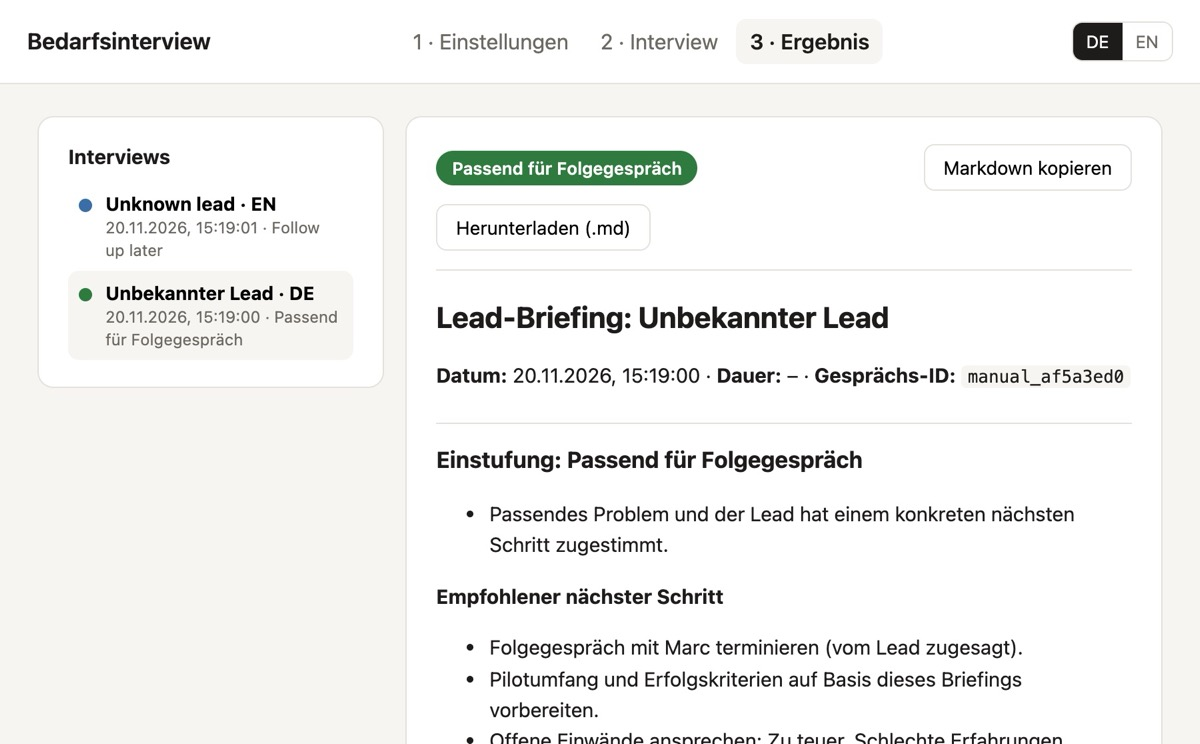
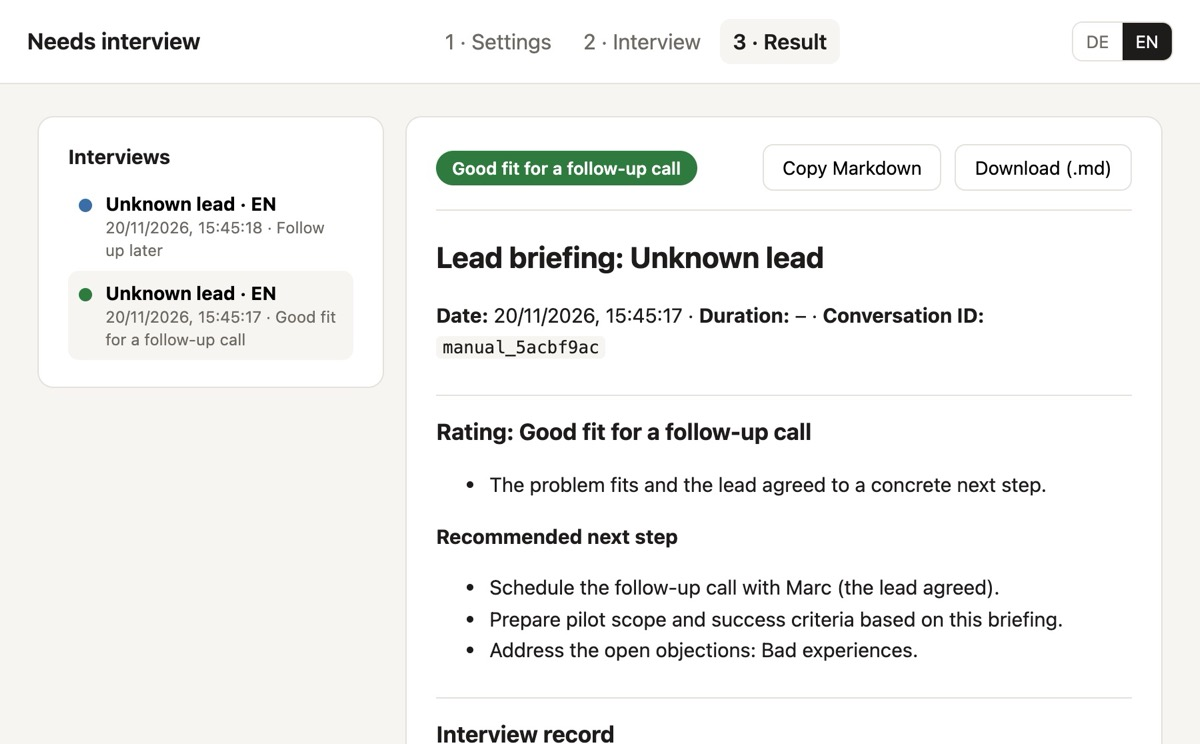
Voice Sales Interview: English screenshots, barge-in and mute
All build-notes screenshots now show the English UI with synthetic
transcripts; card image and alt text follow. New paragraph on barge-in
(interrupt any time, backchannels ignored, patient turn-taking) and the
mute button for noisy places. Media sources updated.

diff --git a/index.html b/index.html
@@ -61,7 +61,7 @@
 <article class="project"><a class="project-image" href="https://write.doyouknowmarc.com/"><img src="./assets/media/write.jpg" alt="The Write landing page: a quiet page that says “Write.” with a blinking cursor" loading="lazy" decoding="async" ><span class="media-open" aria-hidden="true">↗</span></a><div class="project-body"><ul class="control"><li>Text never leaves the browser</li><li>Local AI optional</li></ul><span class="tag">PRIVATE BY DESIGN</span><h3>Write</h3><p>A quiet page for first drafts and poems. Versions of a passage side by side, notes in the margin, synonyms, a local AI when you ask for one, and pictures of your words to share. No account, and your text never leaves the browser.</p><div class="card-links"><a href="https://write.doyouknowmarc.com/">Start writing ↗</a><a href="https://write.doyouknowmarc.com/docs/">What it does ↗</a></div></div></article><article class="project"><a class="project-image" href="https://audio.doyouknowmarc.com/"><img src="./assets/media/audio-cut.jpg" alt="Audio Cut: drop in an audio or video file to trim it and clean up the voice" loading="lazy" decoding="async" ><span class="media-open" aria-hidden="true">↗</span></a><div class="project-body"><ul class="control"><li>Files stay on your device</li></ul><span class="tag">IN THE BROWSER</span><h3>Audio Cut</h3><p>Cut voice recordings precisely and get them ready for a voice clone: pick the part on the waveform, then remove noise and reverb, boost the voice and compare before and after. Files stay on your device.</p><div class="card-links"><a href="https://audio.doyouknowmarc.com/">Try Audio Cut ↗</a></div></div></article><article class="project"><a class="project-image" href="./blog/transkripta/"><img src="./assets/media/transkripta.jpg" alt="Transkripta’s review view: a transcript in timed passages, one tagged Key Finding" loading="lazy" decoding="async" ><span class="media-open" aria-hidden="true">→</span></a><div class="project-body"><ul class="control"><li>Works offline</li><li>Bring your own AI</li></ul><span class="tag">MAC APP · OFFLINE</span><h3>Transkripta</h3><p>Recordings become research material. Drop in an interview, get a searchable transcript on your Mac, jump from any passage to its audio and tag the quotes and findings. Transcription runs offline; AI tagging is optional and can stay local too.</p><div class="card-links"><a href="./blog/transkripta/">How I built it →</a></div></div></article><article class="project"><a class="project-image" href="https://talkingontop.doyouknowmarc.com/"><img src="./assets/media/talking-on-top.jpg" alt="Talking on Top: “The notch, extended.” with live captions below the MacBook notch" loading="lazy" decoding="async" ><span class="media-open" aria-hidden="true">↗</span></a><div class="project-body"><ul class="control"><li>On-device</li><li>Hidden from screen sharing</li></ul><span class="tag">MAC APP</span><h3>Talking on Top</h3><p>The notch, extended: live captions for everything you say and everything your Mac plays, from the microphone, the Mac’s sound or both. On-device, and invisible to screen sharing.</p><p class="note">The page is a password-protected preview for now.</p><div class="card-links"><a href="https://talkingontop.doyouknowmarc.com/">Visit the page ↗</a></div></div></article><article class="project"><a class="project-image" href="https://typingontop.doyouknowmarc.com/"><img src="./assets/media/typing-on-top.jpg" alt="Typing on Top: “Eyes up. Type on top.” with the typed text shown beside the MacBook notch" loading="lazy" decoding="async" ><span class="media-open" aria-hidden="true">↗</span></a><div class="project-body"><ul class="control"><li>On-device</li><li>No network access</li></ul><span class="tag">MAC APP</span><h3>Typing on Top</h3><p>Your hands shouldn’t hide your words. A small Mac menu-bar app that mirrors what you type beside the notch, so your eyes can stay up, on the camera or the room. Runs entirely on the device, with no network access.</p><div class="card-links"><a href="https://typingontop.doyouknowmarc.com/">Visit the page ↗</a></div></div></article><article class="project"><a class="project-image" href="https://doyouknowmarc.github.io/tools/"><img src="./assets/media/dcE3bw8T.jpg" alt="Marc’s toolkit showing the background removal tool" loading="lazy" decoding="async" ><span class="media-open" aria-hidden="true">↗</span></a><div class="project-body"><span class="tag">BUILT WITH CODEX</span><h3>A self-evolving website</h3><p>Visitors submit ideas for tools. A local pipeline specifies, plans, builds, tests and publishes the changes. I developed the idea with GPT; Codex built the project and its structure.</p><p class="note">The toolkit is available. The local Mac mini pipeline is currently offline.</p><div class="card-links"><a href="https://doyouknowmarc.github.io/tools/">Explore the tools ↗</a><a href="https://lnkd.in/p/dcE3bw8T">Background remover post ↗</a></div></div></article>
 </div></div>
 <div class="tool-group" id="found"><div class="group-head"><p class="eyebrow">BE FOUND ON YOUR TERMS</p><p>For founders and business owners who want to control how they appear online.</p></div><div class="project-grid">
-<article class="project"><a class="project-image" href="https://panel.doyouknowmarc.com/"><img src="./assets/media/knowledge-panel-studio.jpg" alt="OwnYourName: a Google-style search for Marc Kroll with a full Knowledge Panel of photos, videos and profiles" loading="lazy" decoding="async" ><span class="media-open" aria-hidden="true">↗</span></a><div class="project-body"><span class="tag">YOUR NAME, FOUND</span><h3>OwnYourName</h3><p>What do people see when they google you? Type a name and watch scattered results turn into one Knowledge Panel-style picture: photos, talks, videos and profiles that tell the same story. Mine and Laurent Terrijn’s are real examples.</p><p class="note">An illustrative concept. Not affiliated with Google.</p><div class="card-links"><a href="https://panel.doyouknowmarc.com/">Try your name ↗</a><article class="project"><a class="project-image" href="./blog/voice-sales-interview/"><img src="./assets/media/voice-sales-interview.jpg" alt="A lead briefing rated “Passend für Folgegespräch”, with the recommended next steps" loading="lazy" decoding="async" ><span class="media-open" aria-hidden="true">→</span></a><div class="project-body"><ul class="control"><li>Calls go to ElevenLabs and TypeSafe</li><li>Bring your own keys</li></ul><span class="tag">VOICE AGENT · DE &amp; EN</span><h3>Voice Sales Interview</h3><p>A voice agent runs the first discovery call with a lead, follows their tangents and finds its way back to the questions that matter. A decision model rates the call and plain code turns that into a briefing with quotes, objections and a next step. Cloud models for now; a local version is on the roadmap.</p><div class="card-links"><a href="./blog/voice-sales-interview/">How I built it →</a></div></div></article></div></div></article><article class="project"><a class="project-image" href="https://consentkit.doyouknowmarc.com/"><img src="./assets/media/consentkit.jpg" alt="The ConsentKit page: “Cookie consent without the bloat.” with its cookie banner" loading="lazy" decoding="async" ><span class="media-open" aria-hidden="true">↗</span></a><div class="project-body"><ul class="control"><li>No tracking until consent</li><li>No dependencies</li></ul><span class="tag">PRIVACY BY DEFAULT</span><h3>ConsentKit</h3><p>A small cookie consent manager without dependencies. It blocks analytics and marketing scripts until a visitor agrees, and keeps YouTube videos as placeholders until they choose to play one. It runs on this site.</p><div class="card-links"><a href="https://consentkit.doyouknowmarc.com/">Try the banner ↗</a></div></div></article><article class="project"><a class="project-image" href="https://webcompare.doyouknowmarc.com/"><img src="./assets/media/webcompare.jpg" alt="WebCompare: medtests.de and doyouknowmarc.com on one MacBook screen, split by a slider" loading="lazy" decoding="async" ><span class="media-open" aria-hidden="true">↗</span></a><div class="project-body"><span class="tag">BEFORE AND AFTER</span><h3>WebCompare</h3><p>Two URLs, one device. A live site and its redesign, production and staging, or you and a competitor, on a real MacBook or iPhone screen: side by side, switched in place, or under one slider. Every view is a link you can send.</p><div class="card-links"><a href="https://webcompare.doyouknowmarc.com/">Compare two sites ↗</a></div></div></article>
+<article class="project"><a class="project-image" href="https://panel.doyouknowmarc.com/"><img src="./assets/media/knowledge-panel-studio.jpg" alt="OwnYourName: a Google-style search for Marc Kroll with a full Knowledge Panel of photos, videos and profiles" loading="lazy" decoding="async" ><span class="media-open" aria-hidden="true">↗</span></a><div class="project-body"><span class="tag">YOUR NAME, FOUND</span><h3>OwnYourName</h3><p>What do people see when they google you? Type a name and watch scattered results turn into one Knowledge Panel-style picture: photos, talks, videos and profiles that tell the same story. Mine and Laurent Terrijn’s are real examples.</p><p class="note">An illustrative concept. Not affiliated with Google.</p><div class="card-links"><a href="https://panel.doyouknowmarc.com/">Try your name ↗</a><article class="project"><a class="project-image" href="./blog/voice-sales-interview/"><img src="./assets/media/voice-sales-interview.jpg" alt="A lead briefing rated “Good fit for a follow-up call”, with the recommended next steps" loading="lazy" decoding="async" ><span class="media-open" aria-hidden="true">→</span></a><div class="project-body"><ul class="control"><li>Calls go to ElevenLabs and TypeSafe</li><li>Bring your own keys</li></ul><span class="tag">VOICE AGENT · DE &amp; EN</span><h3>Voice Sales Interview</h3><p>A voice agent runs the first discovery call with a lead, follows their tangents and finds its way back to the questions that matter. A decision model rates the call and plain code turns that into a briefing with quotes, objections and a next step. Cloud models for now; a local version is on the roadmap.</p><div class="card-links"><a href="./blog/voice-sales-interview/">How I built it →</a></div></div></article></div></div></article><article class="project"><a class="project-image" href="https://consentkit.doyouknowmarc.com/"><img src="./assets/media/consentkit.jpg" alt="The ConsentKit page: “Cookie consent without the bloat.” with its cookie banner" loading="lazy" decoding="async" ><span class="media-open" aria-hidden="true">↗</span></a><div class="project-body"><ul class="control"><li>No tracking until consent</li><li>No dependencies</li></ul><span class="tag">PRIVACY BY DEFAULT</span><h3>ConsentKit</h3><p>A small cookie consent manager without dependencies. It blocks analytics and marketing scripts until a visitor agrees, and keeps YouTube videos as placeholders until they choose to play one. It runs on this site.</p><div class="card-links"><a href="https://consentkit.doyouknowmarc.com/">Try the banner ↗</a></div></div></article><article class="project"><a class="project-image" href="https://webcompare.doyouknowmarc.com/"><img src="./assets/media/webcompare.jpg" alt="WebCompare: medtests.de and doyouknowmarc.com on one MacBook screen, split by a slider" loading="lazy" decoding="async" ><span class="media-open" aria-hidden="true">↗</span></a><div class="project-body"><span class="tag">BEFORE AND AFTER</span><h3>WebCompare</h3><p>Two URLs, one device. A live site and its redesign, production and staging, or you and a competitor, on a real MacBook or iPhone screen: side by side, switched in place, or under one slider. Every view is a link you can send.</p><div class="card-links"><a href="https://webcompare.doyouknowmarc.com/">Compare two sites ↗</a></div></div></article>
 </div></div>
 <div class="tool-group" id="teams"><div class="group-head"><p class="eyebrow">KNOWLEDGE THAT STAYS IN THE TEAM</p><p>For teams adopting AI, and for the people who explain it to them.</p></div><div class="project-grid">
 <article class="project"><a class="project-image" href="https://github.com/doyouknowmarc/Hacknation-Public-2027/blob/main/videos/sensei-explainer/renders/sensei-explainer.mp4"><img src="./assets/media/sensei-product.jpg" alt="Actual Sensei landing page: capturing expert knowledge and teaching it to the next person" loading="lazy" decoding="async" ><span class="media-open" aria-hidden="true">▶</span></a><div class="project-body"><span class="tag">2ND PLACE · HACK-NATION</span><h3>Sensei</h3><p>Our team built a browser agent that learns how people work. Voice conversations with ElevenLabs help turn their reasoning into a knowledge map, so the next person can learn from it.</p><div class="card-links"><a href="https://github.com/doyouknowmarc/Hacknation-Public-2027/blob/main/videos/sensei-explainer/renders/sensei-explainer.mp4">Watch the explainer ↗</a><a href="https://github.com/doyouknowmarc/Hacknation-Public-2027">Code &amp; demos ↗</a><a href="https://lnkd.in/p/dTQe2Dh3">Hackathon post ↗</a></div></div></article><article class="project"><div class="project-image"><img src="./assets/media/teleprompter.png" alt="The actual Teleprompter app reading surface with script text and playback controls" loading="lazy" decoding="async" ></div><div class="project-body"><span class="tag">MY OWN WORKFLOW</span><h3>Teleprompter</h3><p>A tool I built for writing scripts and reading them on camera. It supports scenes, adjustable scrolling and voice tracking. I use it to prepare my videos.</p><details class="project-details"><summary>More about the app <span aria-hidden="true">+</span></summary><p>A browser-based editor and reading surface with script import and export, formatting, scene transitions and playback controls. Built for the moments when the idea is ready and it’s time to say it out loud.</p></details></div></article>

diff --git a/blog/voice-sales-interview/index.html b/blog/voice-sales-interview/index.html
@@ -11,9 +11,9 @@
   <meta name="keywords" content="voice agent, ElevenLabs, TypeSafe, Jev, lead qualification, sales discovery, needs assessment, decision model">
   <meta property="og:site_name" content="Marc Kroll"><meta property="og:locale" content="en_US"><meta property="og:type" content="article">
   <meta property="og:url" content="https://doyouknowmarc.com/blog/voice-sales-interview/"><meta property="og:title" content="A voice agent that turns a sales call into a lead briefing"><meta property="og:description" content="I built a German and English voice agent that interviews leads, then lets a decision model rate the call and writes a structured briefing.">
-  <meta property="og:image" content="https://doyouknowmarc.com/blog/voice-sales-interview/briefing-de.jpg"><meta property="og:image:width" content="1800"><meta property="og:image:height" content="1116">
+  <meta property="og:image" content="https://doyouknowmarc.com/blog/voice-sales-interview/briefing.jpg"><meta property="og:image:width" content="1800"><meta property="og:image:height" content="1116">
   <meta property="article:published_time" content="2026-11-20"><meta property="article:author" content="https://www.linkedin.com/in/doyouknowmarc/"><meta property="article:tag" content="Voice agents"><meta property="article:tag" content="ElevenLabs"><meta property="article:tag" content="TypeSafe"><meta property="article:tag" content="Sales">
-  <meta name="twitter:card" content="summary_large_image"><meta name="twitter:title" content="A voice agent that turns a sales call into a lead briefing"><meta name="twitter:description" content="I built a German and English voice agent that interviews leads, then lets a decision model rate the call and writes a structured briefing."><meta name="twitter:image" content="https://doyouknowmarc.com/blog/voice-sales-interview/briefing-de.jpg">
+  <meta name="twitter:card" content="summary_large_image"><meta name="twitter:title" content="A voice agent that turns a sales call into a lead briefing"><meta name="twitter:description" content="I built a German and English voice agent that interviews leads, then lets a decision model rate the call and writes a structured briefing."><meta name="twitter:image" content="https://doyouknowmarc.com/blog/voice-sales-interview/briefing.jpg">
   <script type="application/ld+json">
 {
   "@context": "https://schema.org",
@@ -25,7 +25,7 @@
       "mainEntityOfPage": "https://doyouknowmarc.com/blog/voice-sales-interview/",
       "headline": "A voice agent that turns a sales call into a lead briefing",
       "description": "I built a German and English voice agent that interviews leads, then lets a decision model rate the call and writes a structured briefing.",
-      "image": ["https://doyouknowmarc.com/blog/voice-sales-interview/briefing-de.jpg"],
+      "image": ["https://doyouknowmarc.com/blog/voice-sales-interview/briefing.jpg"],
       "datePublished": "2026-11-20",
       "dateModified": "2026-11-20",
       "inLanguage": "en",
@@ -42,7 +42,7 @@
       "applicationCategory": "BusinessApplication",
       "operatingSystem": "Web",
       "author": { "@id": "https://doyouknowmarc.com/#person" },
-      "screenshot": "https://doyouknowmarc.com/blog/voice-sales-interview/briefing-de.jpg"
+      "screenshot": "https://doyouknowmarc.com/blog/voice-sales-interview/briefing.jpg"
     }
   ]
 }
@@ -67,8 +67,8 @@
 <p>Before I build something for a client, I want to know where their process actually hurts, who decides, and whether they would pay for a small pilot. Those first conversations follow the same pattern every time. So I built an agent that runs them: a lead clicks “Start interview”, talks for about ten minutes, and I get a briefing with the problem, the evidence, the open objections and a recommended next step.</p>
 
   <figure class="figure-wide">
-    <a href="briefing-de.jpg"><img src="briefing-de.jpg" width="1800" height="1116" alt="The result view with a German briefing rated “Passend für Folgegespräch” and the recommended next steps." decoding="async"></a>
-    <figcaption>A German briefing for a synthetic interview with a cleaning company. The lead agreed to a call, so the code rated it a good fit for a follow-up.</figcaption>
+    <a href="briefing.jpg"><img src="briefing.jpg" width="1800" height="1116" alt="The result view with a briefing rated “Good fit for a follow-up call” and the recommended next steps." decoding="async"></a>
+    <figcaption>A briefing for a synthetic interview with a cleaning company. The lead agreed to a call, so the code rated it a good fit for a follow-up.</figcaption>
   </figure>
 
   <h2>The conversation runs on ElevenLabs</h2>
@@ -87,12 +87,14 @@
     <figcaption>The interview loop. Tangents and questions lead back to the checklist; the call ends after the summary and the next step, or as soon as the lead wants to stop.</figcaption>
   </figure>
 
-  <p>The agent uses Eleven v4 Turbo, which turns on ElevenLabs’ expressive mode. The prompt asks for a warm, curious tone and lets the model add a tag now and then: a short <code>[sighs]</code> when someone describes a painful process, <code>[laughs]</code> for a joke, <code>[excited]</code> when the lead agrees to a next step and <code>[slow]</code> for the summary. At most one per reply, and the tags are stripped from the transcript before anything is evaluated.</p>
+  <p>The lead can cut in at any time, even during the greeting. The agent stops, doesn’t repeat its unfinished sentence and responds to what the lead said. Short acknowledgements like “mhm”, “yeah” or “okay” don’t count as interruptions, so the agent can finish its thought, and turn-taking is set to patient so people get time to think. If someone is in a noisy place, they can mute their microphone with a button or the M key. If answers still come through garbled, the agent suggests a quieter spot.</p>
 
   <figure class="figure-wide">
-    <a href="interview.jpg"><img src="interview.jpg" width="1800" height="1116" alt="The interview screen with a consent note and a large “Start interview” button." decoding="async"></a>
-    <figcaption>The interview screen. The lead sees a note on how the call is processed before the button unlocks.</figcaption>
+    <a href="interview.jpg"><img src="interview.jpg" width="1800" height="1116" alt="The interview screen during a call: an “End interview” button, a “Mute microphone” button and a live transcript where an agent line is marked as interrupted." decoding="async"></a>
+    <figcaption>The interview screen in its in-call layout, staged with lines from the sample transcript. The lead cut in on the second question, so that line is marked as interrupted.</figcaption>
   </figure>
+
+  <p>The agent uses Eleven v4 Turbo, which turns on ElevenLabs’ expressive mode. The prompt asks for a warm, curious tone and lets the model add a tag now and then: a short <code>[sighs]</code> when someone describes a painful process, <code>[laughs]</code> for a joke, <code>[excited]</code> when the lead agrees to a next step and <code>[slow]</code> for the summary. At most one per reply, and the tags are stripped from the transcript before anything is evaluated.</p>
 
   <h2>A decision model rates the call, code decides</h2>
   <p>The qualification uses Jev, TypeSafe’s decision model. Jev doesn’t write text. It answers typed questions with calibrated probabilities, so I ask it small, concrete ones: did the lead name a concrete problem, describe a real case, put a number on the impact, agree to talk to me? Does the problem fit my problem area? For each of eight objection types, did the lead raise it, and do they still hold it at the end? Every statement from the lead also gets a yes/no question about whether it describes the problem, the impact or the timing, so the briefing can quote the lead’s own words instead of a summary.</p>
@@ -100,13 +102,13 @@
   <p>The status itself is plain code: a small truth table turns those answers into “good fit for a follow-up call”, “needs clarification”, “follow up later” or “outside the offer”. Anything above 70 % reads as yes and anything below 30 % as no. In between it stays “unclear” and shows up as an open question.</p>
 
   <figure class="figure-wide">
-    <a href="signals-en.jpg"><img src="signals-en.jpg" width="1800" height="1116" alt="A table of qualification signals with readings such as “no priority” and “wants information first” and their probabilities." decoding="async"></a>
+    <a href="signals.jpg"><img src="signals.jpg" width="1800" height="1116" alt="A table of qualification signals with readings such as “no priority” and “wants information first” and their probabilities." decoding="async"></a>
     <figcaption>The signals behind an English briefing. This lead wants to wait until next year and asks for something in writing, so the rating is “Follow up later”.</figcaption>
   </figure>
 
   <figure class="figure-wide">
-    <a href="evidence-de.jpg"><img src="evidence-de.jpg" width="1800" height="1116" alt="Quotes from the lead for main problem, impact and timing, followed by a table of objections and whether they are still open." decoding="async"></a>
-    <figcaption>Evidence and objections, quoted from the transcript. The price objection stays “unclear” at 51 %, so I ask about it in the follow-up instead of guessing.</figcaption>
+    <a href="evidence.jpg"><img src="evidence.jpg" width="1800" height="1116" alt="Quotes from the lead for main problem, impact and timing, followed by a table of objections and whether they are still open." decoding="async"></a>
+    <figcaption>Evidence and objections, quoted from the transcript. The bad experience with an earlier CRM is still open at the end, so the briefing tells me to address it in the follow-up.</figcaption>
   </figure>
 
   <h2>Everyone brings their own keys</h2>
